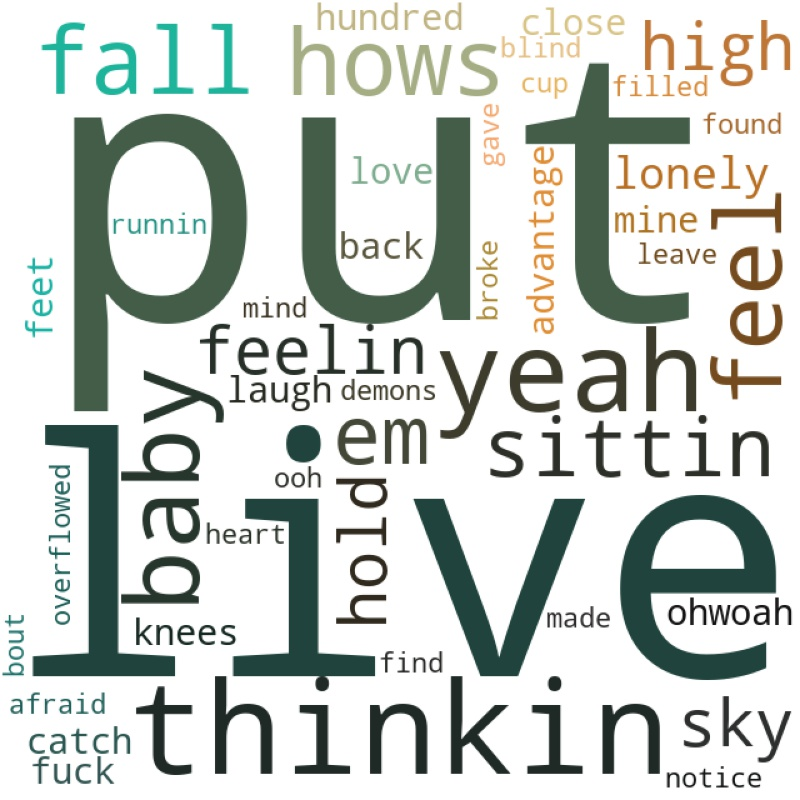
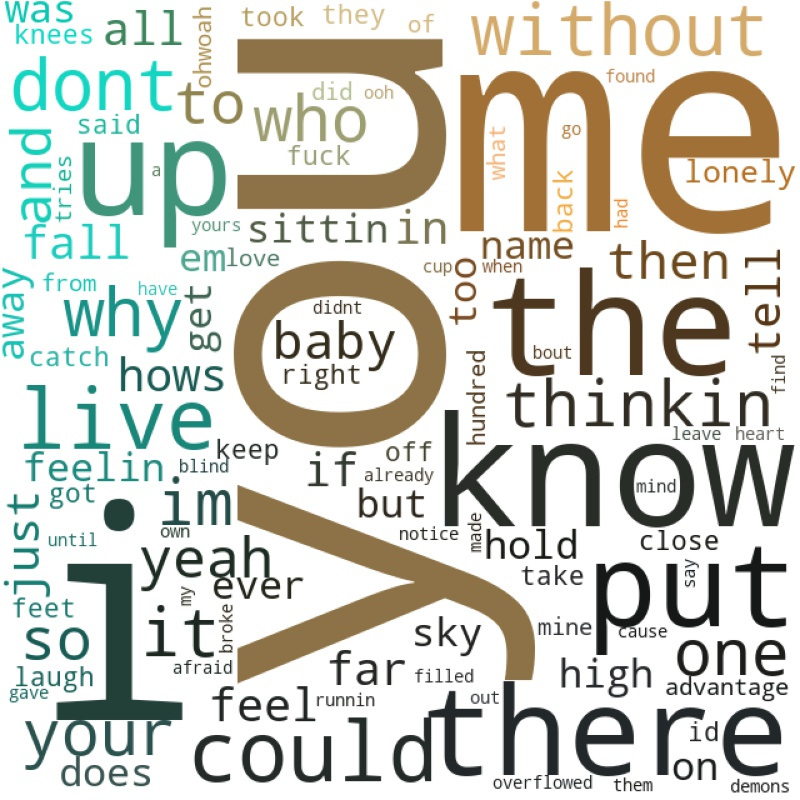
Converted lyrics_dict.py to hold list of [filtered, unfiltered] lyric frequencies as values

diff --git a/data/lyrics_dict.py b/data/lyrics_dict.py
@@ -1,1 +1,1 @@
-lyrics_dict = {('Without Me', 'Halsey'): {'found': 1, 'heart': 1, 'broke': 1, 'filled': 1, 'cup': 1, 'overflowed': 1, 'close': 2, 'afraid': 1, 'leave': 1, 'ooh': 1, 'catch': 2, 'fall': 4, 'laugh': 2, 'fuck': 2, 'em': 3, 'knees': 2, 'put': 10, 'back': 2, 'feet': 2, 'advantage': 2, 'hows': 4, 'feel': 4, 'sittin': 3, 'feelin': 3, 'high': 3, 'hold': 3, 'sky': 3, 'lonely': 3, 'thinkin': 8, 'live': 10, 'baby': 5, 'yeah': 6, 'gave': 1, 'love': 2, 'bout': 1, 'hundred': 2, 'runnin': 1, 'demons': 1, 'mind': 1, 'made': 1, 'mine': 2, 'notice': 1, 'blind': 1, 'find': 1, 'ohwoah': 2}}
+lyrics_dict = {('Without Me', 'Halsey'): [{'found': 1, 'heart': 1, 'broke': 1, 'filled': 1, 'cup': 1, 'overflowed': 1, 'close': 2, 'afraid': 1, 'leave': 1, 'ooh': 1, 'catch': 2, 'fall': 4, 'laugh': 2, 'fuck': 2, 'em': 3, 'knees': 2, 'put': 10, 'back': 2, 'feet': 2, 'advantage': 2, 'hows': 4, 'feel': 4, 'sittin': 3, 'feelin': 3, 'high': 3, 'hold': 3, 'sky': 3, 'lonely': 3, 'thinkin': 8, 'live': 10, 'baby': 5, 'yeah': 6, 'gave': 1, 'love': 2, 'bout': 1, 'hundred': 2, 'runnin': 1, 'demons': 1, 'mind': 1, 'made': 1, 'mine': 2, 'notice': 1, 'blind': 1, 'find': 1, 'ohwoah': 2}, {'found': 1, 'you': 36, 'when': 1, 'your': 8, 'heart': 1, 'was': 3, 'broke': 1, 'i': 19, 'filled': 1, 'cup': 1, 'until': 1, 'it': 9, 'overflowed': 1, 'took': 2, 'so': 7, 'far': 4, 'to': 7, 'keep': 2, 'close': 2, 'afraid': 1, 'leave': 1, 'on': 3, 'own': 1, 'ooh': 1, 'said': 2, 'id': 2, 'catch': 2, 'if': 4, 'fall': 4, 'and': 6, 'they': 2, 'laugh': 2, 'then': 5, 'fuck': 2, 'em': 3, 'all': 4, 'got': 2, 'off': 2, 'knees': 2, 'put': 10, 'right': 2, 'back': 2, 'feet': 2, 'just': 4, 'could': 10, 'take': 2, 'advantage': 2, 'of': 2, 'me': 19, 'tell': 4, 'hows': 4, 'feel': 4, 'sittin': 3, 'up': 11, 'there': 11, 'feelin': 3, 'high': 3, 'but': 3, 'too': 3, 'away': 3, 'hold': 3, 'know': 14, 'im': 8, 'the': 12, 'one': 8, 'who': 8, 'name': 3, 'in': 4, 'sky': 3, 'does': 3, 'ever': 3, 'get': 3, 'lonely': 3, 'thinkin': 8, 'live': 10, 'without': 10, 'baby': 5, 'dont': 10, 'why': 9, 'yeah': 6, 'gave': 1, 'love': 2, 'bout': 1, 'a': 1, 'hundred': 2, 'tries': 2, 'runnin': 1, 'from': 2, 'demons': 1, 'mind': 1, 'yours': 1, 'made': 1, 'mine': 2, 'didnt': 1, 'notice': 1, 'cause': 1, 'my': 1, 'blind': 1, 'have': 1, 'say': 1, 'what': 2, 'did': 2, 'already': 1, 'had': 1, 'go': 1, 'find': 1, 'out': 1, 'them': 1, 'ohwoah': 2}]}

diff --git a/processing/genius.py b/processing/genius.py
@@ -120,6 +120,7 @@ def make_lyrics_dict(song_info_list):
         for line in infile:
             stop_words[line.strip('\n')] = 1
     lyrics_path = os.path.join(cur_path, "..", "data", "lyrics_dict.py")
+    unfiltered_lyrics_path = os.path.join(cur_path, "..", "data", "unfiltered_lyrics_dict.py")
     with open(lyrics_path, 'w') as outfile:
         for song_info in song_info_list:
             try:
@@ -128,17 +129,22 @@ def make_lyrics_dict(song_info_list):
                     print(f"Couldnt Find Correct Lyrics For {song_info[0]} by {song_info[1]}, Only Found {song.title} by {song.artist}")
                     continue
                 lyrics = list(song.lyrics.split())
-                word_dict = {}
+                filtered_dict = {}
+                unfiltered_dict = {}
                 for word in lyrics:
                     simple_word = word.lower()
                     simple_word = simple_word.translate(table)
+                    if simple_word in unfiltered_dict:
+                        unfiltered_dict[simple_word] += 1
+                    else:
+                        unfiltered_dict[simple_word] = 1
                     if simple_word in stop_words or word in stop_words:
                         continue
-                    if simple_word in word_dict:
-                        word_dict[simple_word] += 1
+                    if simple_word in filtered_dict:
+                        filtered_dict[simple_word] += 1
                     else:
-                        word_dict[simple_word] = 1
-                lyrics_dict[song_info] = word_dict
+                        filtered_dict[simple_word] = 1
+                lyrics_dict[song_info] = [filtered_dict, unfiltered_dict]
                 song_url_list.append(song.url)
                 outfile.write(f"lyrics_dict = {str(lyrics_dict)}")
                 print(f"Grabbed The Lyrics From {song_info[0]} by {song_info[1]} with song_title: {song.title}|||{song.url}")

diff --git a/analysis/wordcloud_generator.py b/analysis/wordcloud_generator.py
@@ -26,7 +26,7 @@ def create_songcloud(song_info, image_link = ""):
     wordcloud = WordCloud(width = 640, height = 640,
                     background_color ='white',
                     stopwords = stopwords,
-                    min_font_size = 10).generate_from_frequencies(lyrics_dict[song_info])
+                    min_font_size = 10).generate_from_frequencies(lyrics_dict[song_info][1])
     image_colors = ImageColorGenerator(album_coloring)
     plt.figure(figsize = (8, 8), facecolor = None)
     plt.imshow(wordcloud.recolor(color_func=image_colors))
@@ -41,7 +41,7 @@ def create_all_songclouds():
         wordcloud = WordCloud(width = 640, height = 640,
                     background_color ='white',
                     stopwords = stopwords,
-                    min_font_size = 10).generate_from_frequencies(lyrics_dict[key])
+                    min_font_size = 10).generate_from_frequencies(lyrics_dict[key][1])
         plt.figure(figsize = (8, 8), facecolor = None)
         plt.imshow(wordcloud)
         plt.axis("off")

diff --git a/analysis/Keyword_popularity.py b/analysis/Keyword_popularity.py
@@ -18,8 +18,8 @@ def find_word_score():
     for line in f:
         position, track, artist = line.split(",")[1:3]
         track_position[(track, artist)] = position
-    for track, word_dict in lyrics_dict.items():
-        for word, frequency in word_dict.items():
+    for track, word_dicts in lyrics_dict.items():
+        for word, frequency in word_dicts[0].items():
             if word not in word_popularity:
                 word_popularity[word] = 0
             word_popularity[word] += frequency/track_position[track]
